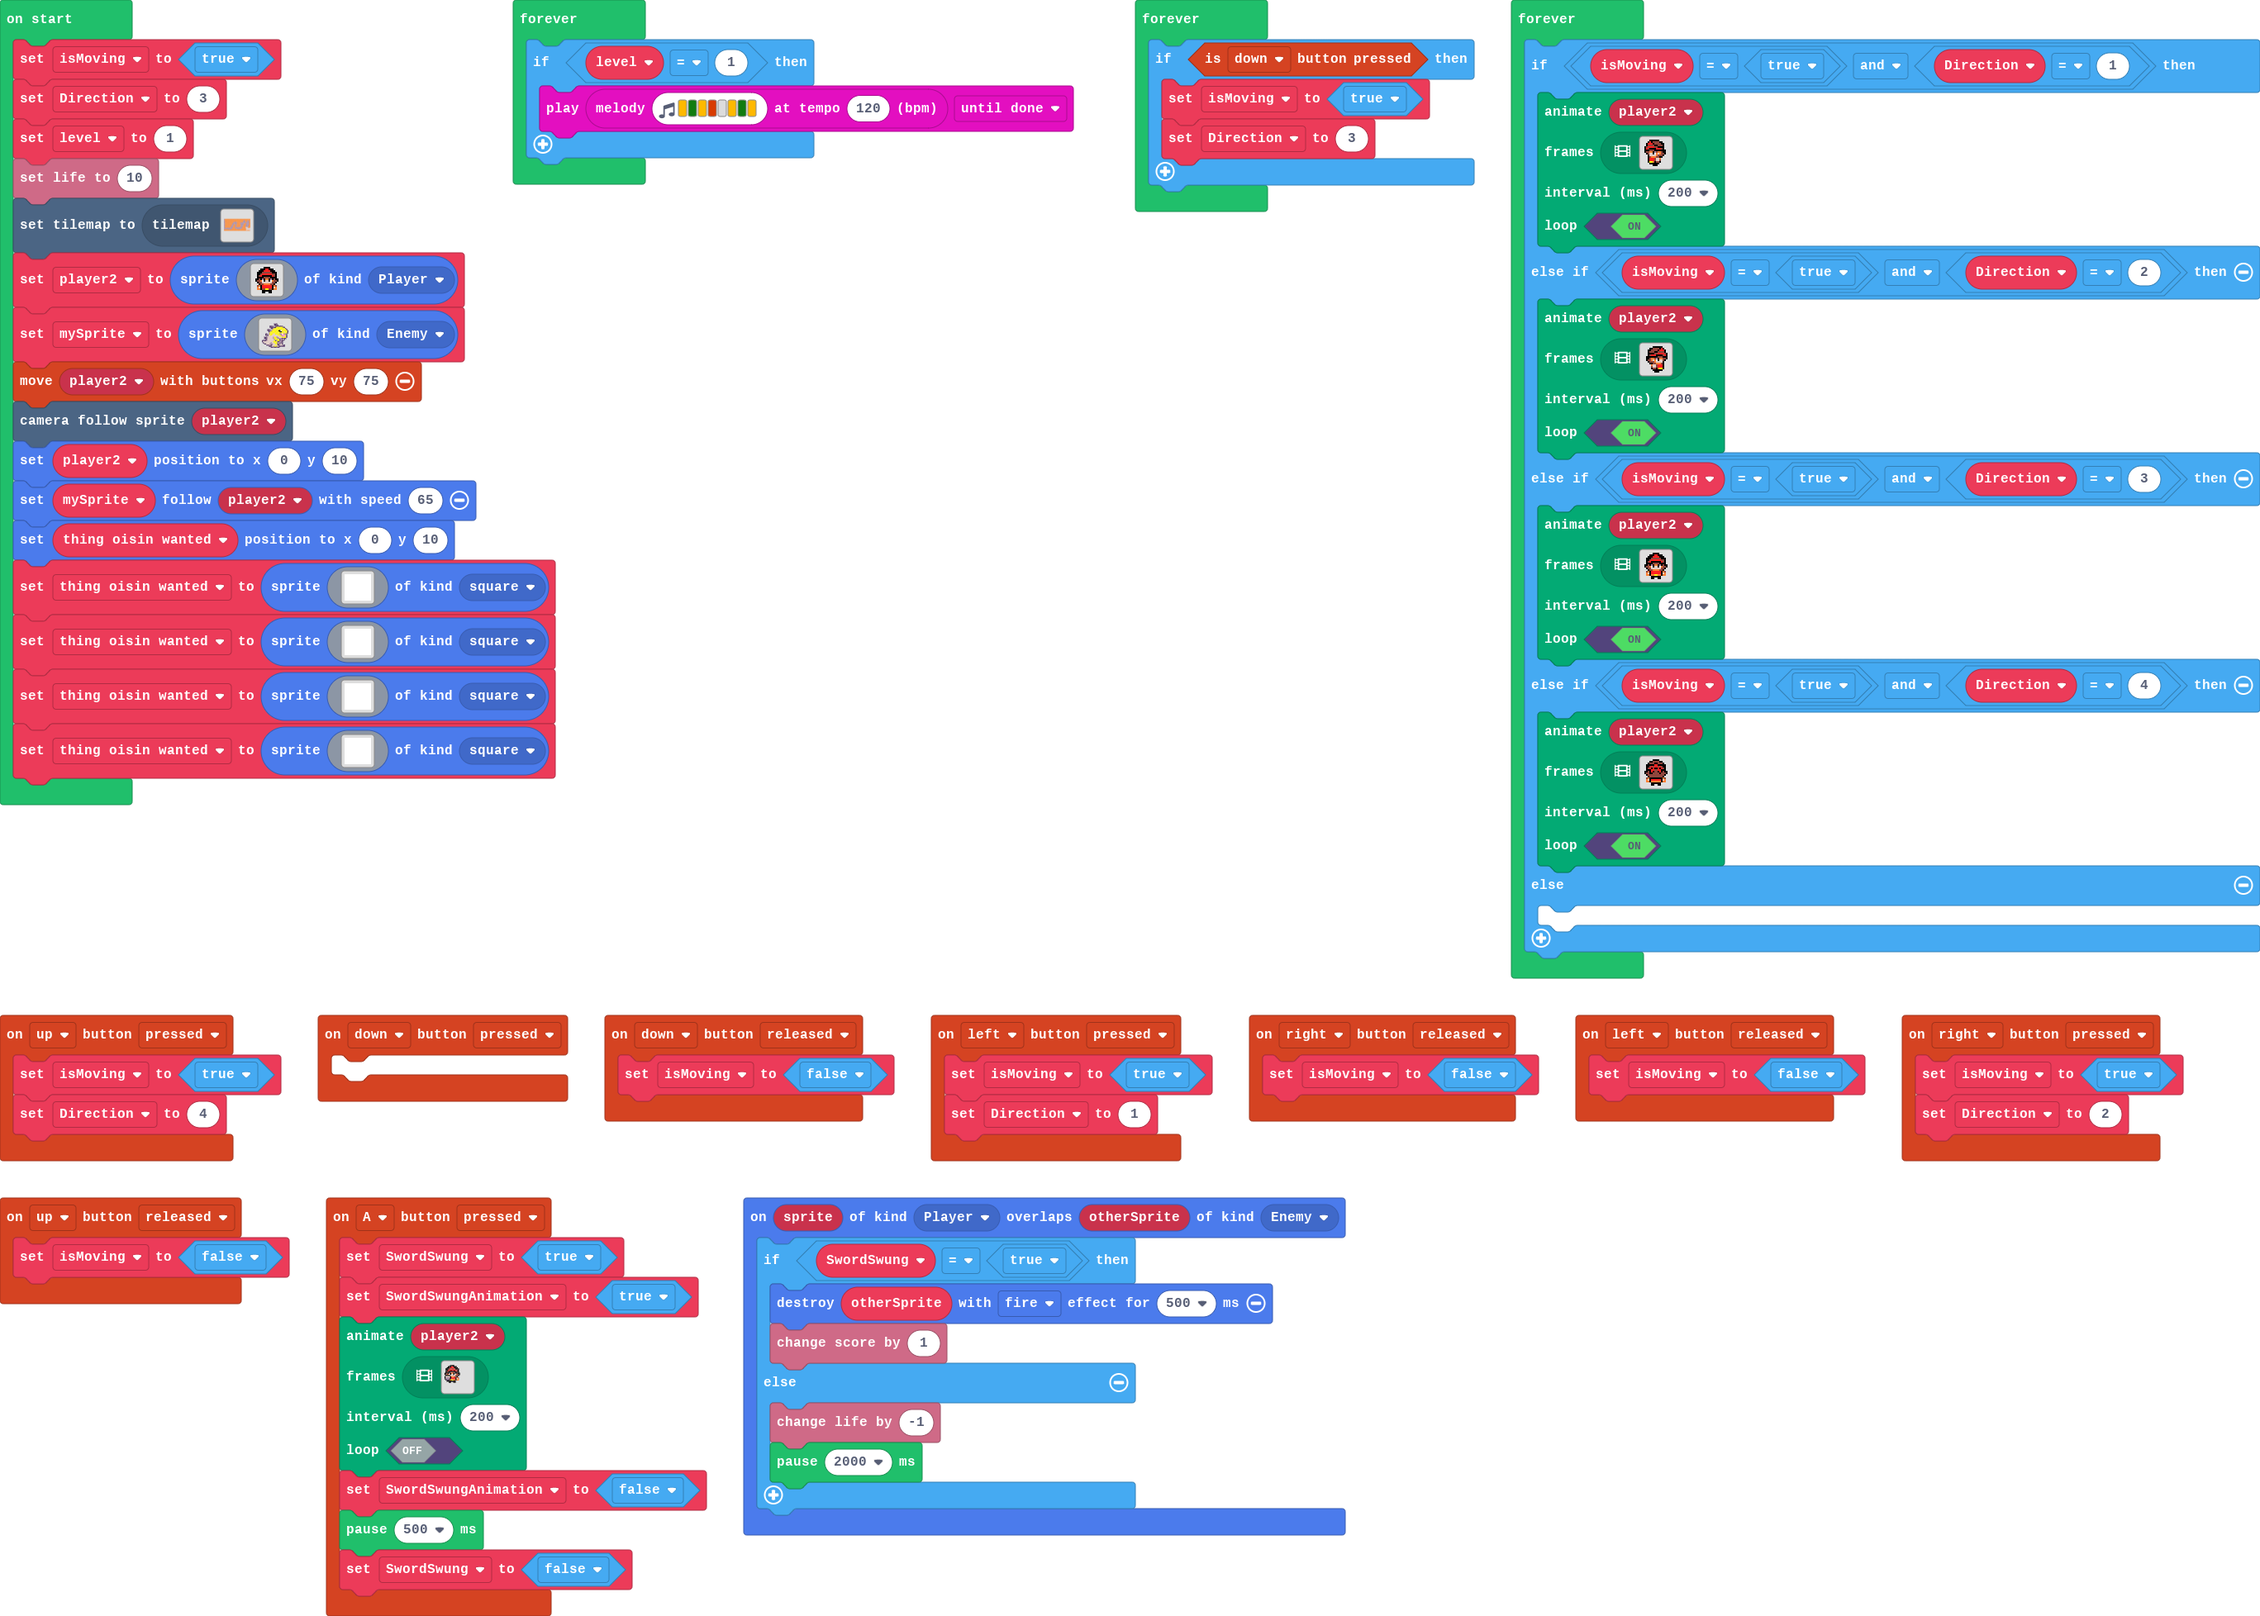
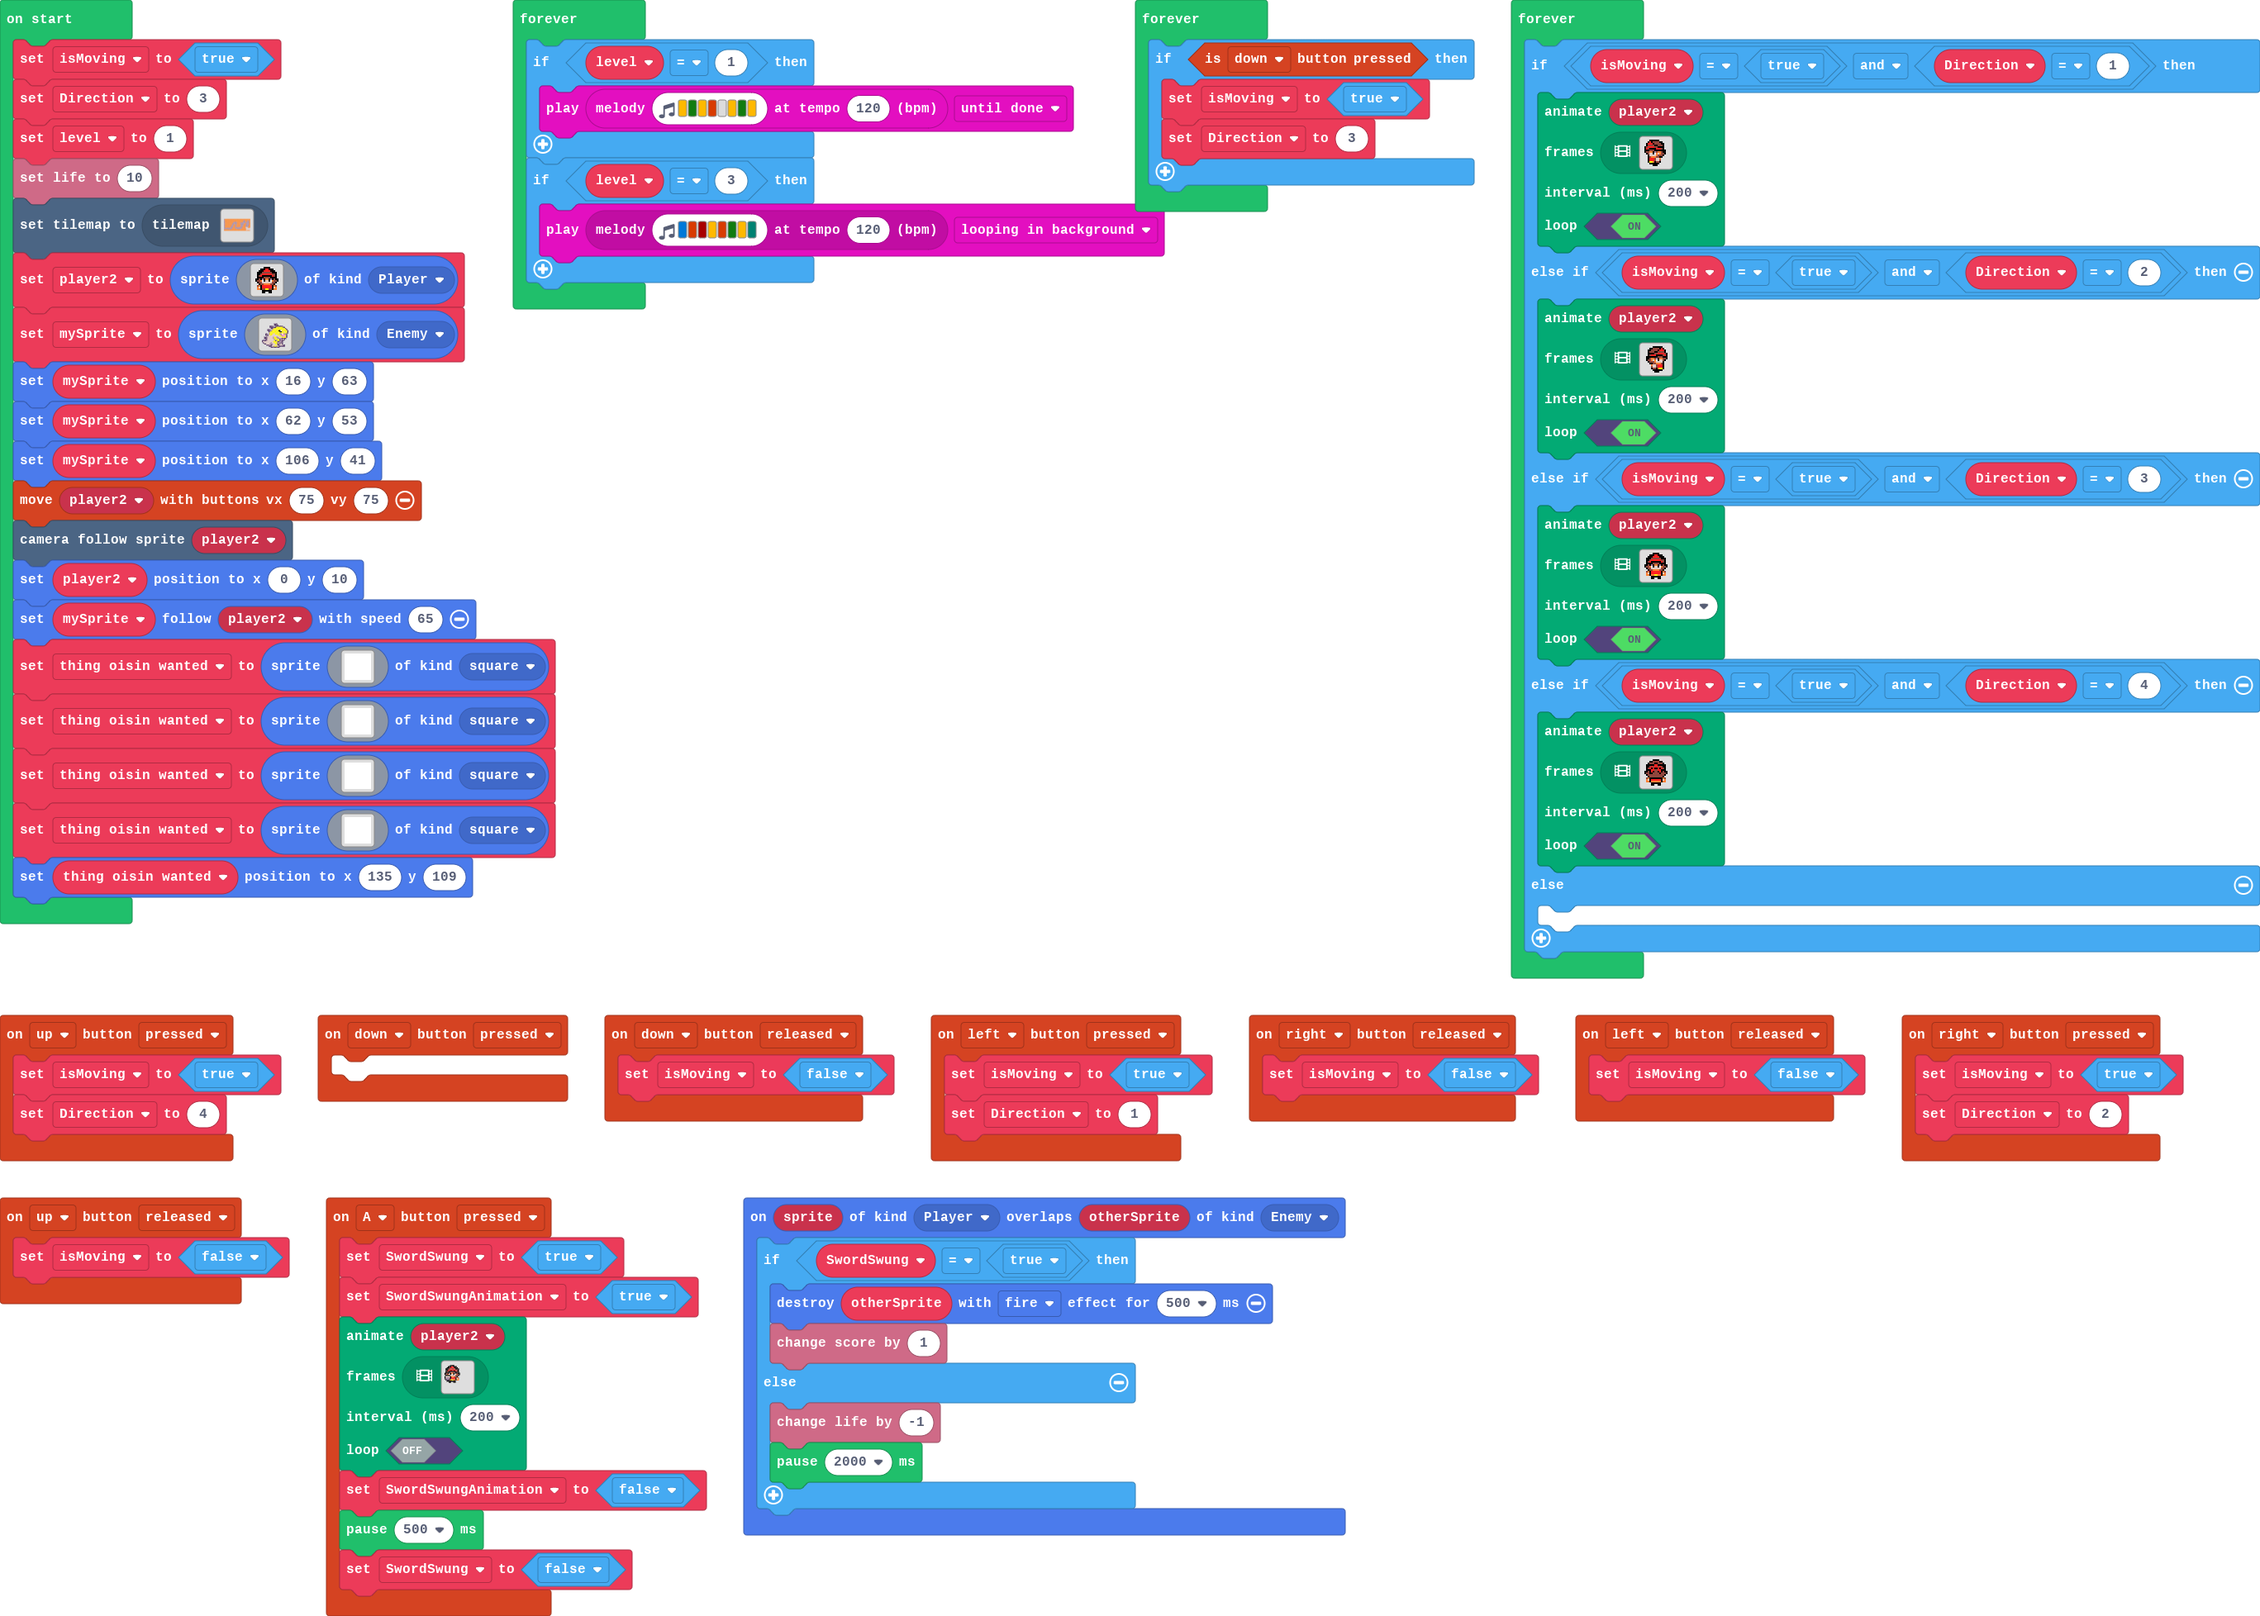
enemy spawn

Changed region(s): [[0.0, 0.2183, 0.2486, 0.5925], [0.2176, 0.0936, 0.5283, 0.2183]]

diff --git a/tilemap.g.ts b/tilemap.g.ts
@@ -121,6 +121,44 @@ namespace myTiles {
 ..........................................................................................
 ..........................................................................................
 `, [myTiles.transparency16,sprites.dungeon.hazardLava1,sprites.dungeon.hazardLava0,sprites.dungeon.floorDark0,sprites.dungeon.floorDark1,sprites.dungeon.floorDark3,sprites.dungeon.floorLight2,sprites.dungeon.floorLight0,sprites.dungeon.stairWest], TileScale.Sixteen);
+            case "level3":
+            case "level3":return tiles.createTilemap(hex`1000100000000000000000000000000000000000000000000000000000000000000000000000000000000000000000000000000000000000000000000000000000000000000000000000000000000000000000000000000000000000000000000000000000000000000000000000000000000000000000000000000000000000000000000000000000000000000000000000000000000000000000000000000000000000000000000000000000000000000000000000000000000000000000000000000000000000000000000000000000000000000000000000000000000000000000000000000000000000000000000000000000000000000000000000000000000000`, img`
+. . . . . . . . . . . . . . . . 
+. . . . . . . . . . . . . . . . 
+. . . . . . . . . . . . . . . . 
+. . . . . . . . . . . . . . . . 
+. . . . . . . . . . . . . . . . 
+. . . . . . . . . . . . . . . . 
+. . . . . . . . . . . . . . . . 
+. . . . . . . . . . . . . . . . 
+. . . . . . . . . . . . . . . . 
+. . . . . . . . . . . . . . . . 
+. . . . . . . . . . . . . . . . 
+. . . . . . . . . . . . . . . . 
+. . . . . . . . . . . . . . . . 
+. . . . . . . . . . . . . . . . 
+. . . . . . . . . . . . . . . . 
+. . . . . . . . . . . . . . . . 
+`, [myTiles.transparency16], TileScale.Sixteen);
+            case "level4":
+            case "level4":return tiles.createTilemap(hex`1000100000000000000000000000000000000000000000000000000000000000000000000000000000000000000000000000000000000000000000000000000000000000000000000000000000000000000000000000000000000000000000000000000000000000000000000000000000000000000000000000000000000000000000000000000000000000000000000000000000000000000000000000000000000000000000000000000000000000000000000000000000000000000000000000000000000000000000000000000000000000000000000000000000000000000000000000000000000000000000000000000000000000000000000000000000000000`, img`
+. . . . . . . . . . . . . . . . 
+. . . . . . . . . . . . . . . . 
+. . . . . . . . . . . . . . . . 
+. . . . . . . . . . . . . . . . 
+. . . . . . . . . . . . . . . . 
+. . . . . . . . . . . . . . . . 
+. . . . . . . . . . . . . . . . 
+. . . . . . . . . . . . . . . . 
+. . . . . . . . . . . . . . . . 
+. . . . . . . . . . . . . . . . 
+. . . . . . . . . . . . . . . . 
+. . . . . . . . . . . . . . . . 
+. . . . . . . . . . . . . . . . 
+. . . . . . . . . . . . . . . . 
+. . . . . . . . . . . . . . . . 
+. . . . . . . . . . . . . . . . 
+`, [myTiles.transparency16], TileScale.Sixteen);
         }
         return null;
     })

diff --git a/main.ts b/main.ts
@@ -152,7 +152,6 @@ sprites.onOverlap(SpriteKind.Player, SpriteKind.Enemy, function (sprite, otherSp
 })
 let SwordSwungAnimation = false
 let SwordSwung = false
-let thing_oisin_wanted: Sprite = null
 let player2: Sprite = null
 let Direction = 0
 let isMoving = false
@@ -205,12 +204,14 @@ let mySprite = sprites.create(img`
     ......cccdd555dcccccc...
     ........cccccccc........
     `, SpriteKind.Enemy)
+mySprite.setPosition(16, 63)
+mySprite.setPosition(62, 53)
+mySprite.setPosition(106, 41)
 controller.moveSprite(player2, 75, 75)
 scene.cameraFollowSprite(player2)
 player2.setPosition(0, 10)
 mySprite.follow(player2, 65)
-thing_oisin_wanted.setPosition(0, 10)
-thing_oisin_wanted = sprites.create(img`
+let thing_oisin_wanted = sprites.create(img`
     11111111111111111111111111111111
     11111111111111111111111111111111
     11111111111111111111111111111111
@@ -346,9 +347,13 @@ thing_oisin_wanted = sprites.create(img`
     11111111111111111111111111111111
     11111111111111111111111111111111
     `, SpriteKind.square)
+thing_oisin_wanted.setPosition(135, 109)
 forever(function () {
     if (level == 1) {
         music.play(music.stringPlayable("A G A B - A G A ", 120), music.PlaybackMode.UntilDone)
+    }
+    if (level == 3) {
+        music.play(music.stringPlayable("E B C5 A B G A F ", 120), music.PlaybackMode.LoopingInBackground)
     }
 })
 forever(function () {
